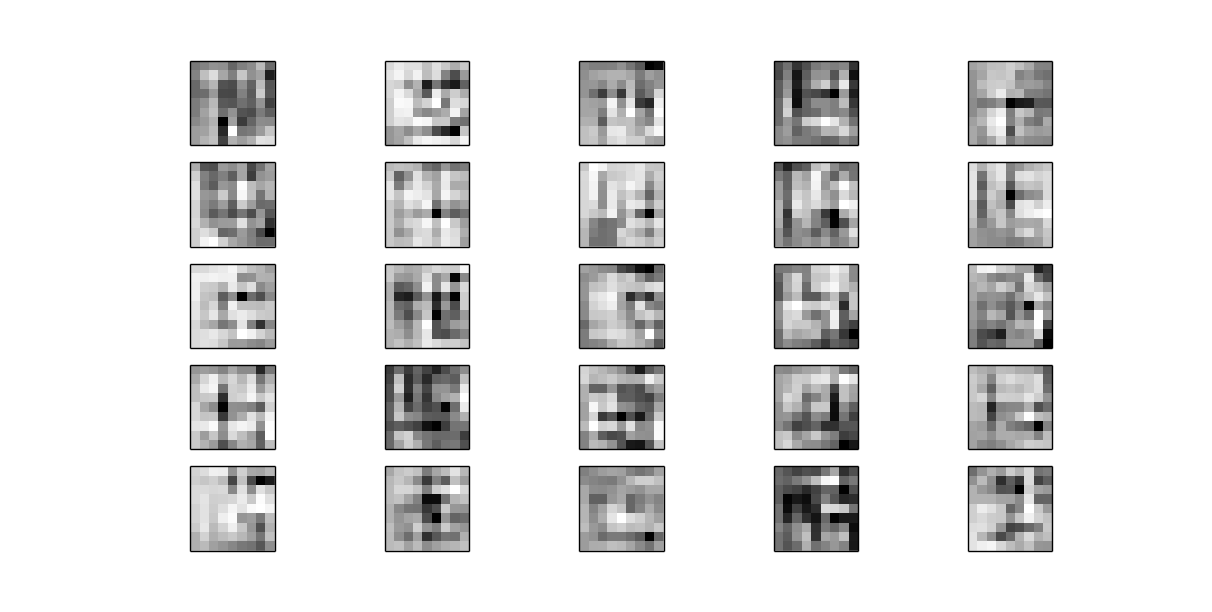
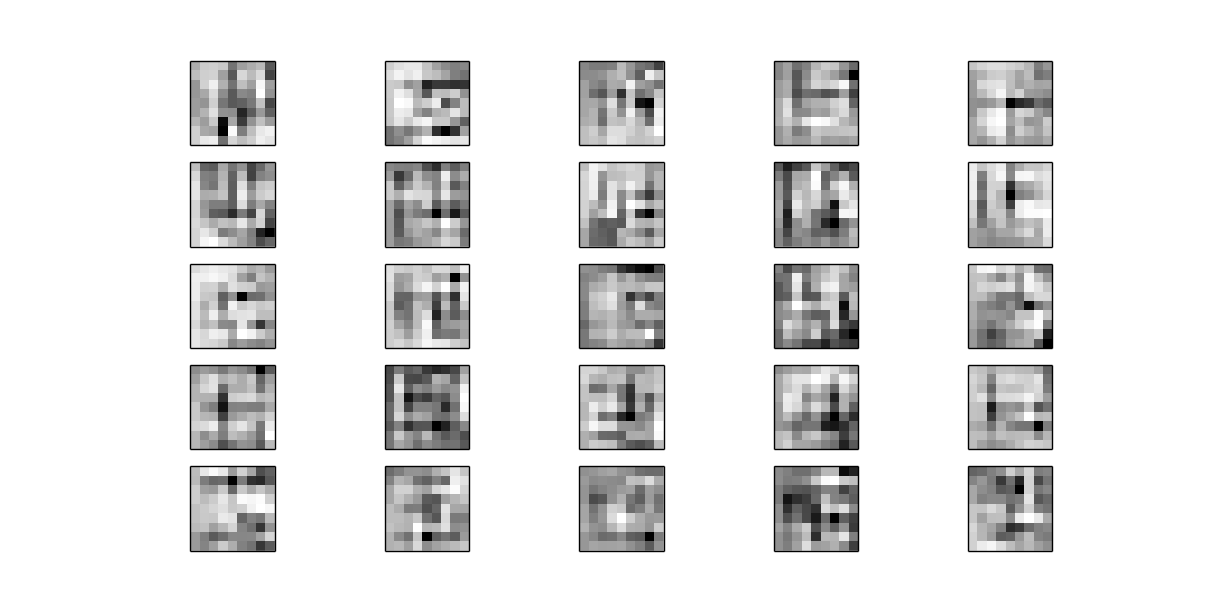
sparsity constraint

diff --git a/generate_data.py b/generate_data.py
@@ -1,7 +1,7 @@
 import numpy as np
 import matplotlib.pyplot as plt
 
-dim = 9
+dim = 8
 np.random.seed(1) # use a seed when comparing different results
 
 def rand_rect():

diff --git a/results/README.md b/results/README.md
@@ -11,7 +11,7 @@ in [0,1]). The cost function is optimized using an open-source implementation of
 The training set is 20 random 9x9 rectangles, shown below.
 ![training set](https://github.com/FluxLemur/UnsupervisedLearning/blob/master/results/xs.png)
 
-## 1. Simple autoencoder.
+## 1. Simple autoencoder
 The cost funciton is the average [L^2 norm](http://en.wikipedia.org/wiki/Euclidean_distance) between the output and the input images.
 
 The learned weights for the hidden layer:
@@ -20,10 +20,10 @@ The learned weights for the hidden layer:
 The output for the test data:
 ![x hats 1](https://github.com/FluxLemur/UnsupervisedLearning/blob/master/results/x_hats_1.png)
 
-Average error: 4.24
-About 94.76% accurate
+Average error: 2.68, about ?% accurate. Trains in 51 iterations of the optimization
+algorithm.
 
-## 2. Adding weight decay regularization.
+## 2. Adding weight decay regularization
 Now, the magnitude of the weight parameters is
 included in the cost function. This change, as a type of regularization, prevents
 overfitting. The sum of squares of the weight parameters in the network decreases
@@ -33,5 +33,19 @@ to 0.6% of its previous, non-regularized size.
 
 ![x hats 2](https://github.com/FluxLemur/UnsupervisedLearning/blob/master/results/x_hats_2.png)
 
-Average error: 1.67
-About 97.93% accurate
+Average error: 1.64, about % accurate. Trains in 779 iterations.
+
+## 3. Adding sparsity
+We want our network to learn structured features of our data. Thus, we enforce that the
+hidden units have sparse activations for a given input. That is, we want a low number of
+activations to capture the higher dimensionality features our data exhibits.
+
+The cost function now penalizes when the average activation for a hidden unit
+deviates from some sparsity term we define (in the code, we use 1% sparsity, and use
+[Kullback-Leibler divergence](wiki link)).
+
+![weights 3](https://github.com/FluxLemur/UnsupervisedLearning/blob/master/results/hidden_unit_weights_3.png)
+
+![x hats 3](https://github.com/FluxLemur/UnsupervisedLearning/blob/master/results/x_hats_3.png)
+
+Average error: 3.24, about ?% accurate. Trains in ? iterations.
